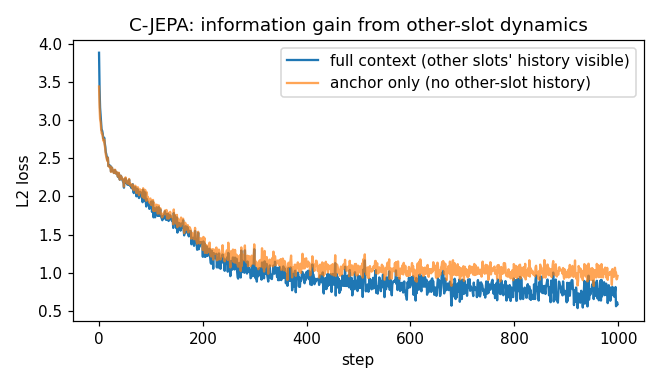
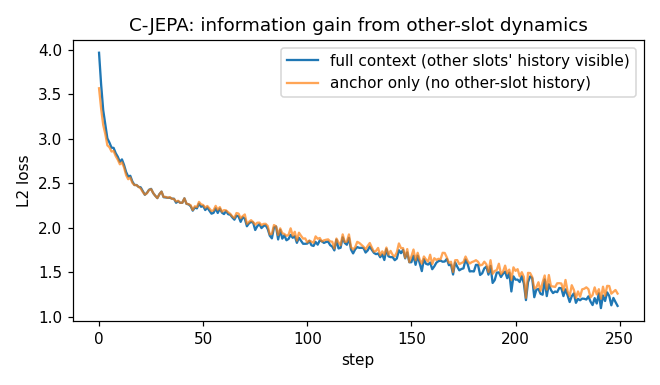
C-JEPA tutorial: add mask animation gif + Core insights
cjepa_extras.py: save_mask_animation() renders one video as a 3-panel
animation (original | context | targets) and steps through all T frames.
The animation makes the temporal structure of C-JEPA's masking obvious:
anchor visible at t=0, masked-object cell blanked at t=1..4, entire
context black at t=5..7 (full future forecasting).

cjepa_tutorial.md:
- Embed the gif right after the static mask grid with a one-paragraph
  description of what the animation makes obvious.
- Add "Core insights" section before "What's next": mask the object not
  the patch; identity anchor with no slot positional encoding; predict
  both history and future; frozen encoder removes need for EMA; the
  interaction-gap diagnostic measures inter-object information use.
- Honest note that slot discovery (the ~100k-step VideoSAUR prerequisite)
  is what we skip; everything downstream is faithful.

diff --git a/cjepa_extras.py b/cjepa_extras.py
@@ -65,6 +65,52 @@ def save_loss_decomp(losses_hist, losses_fut, losses_total, path):
     plt.savefig(path, dpi=110); plt.close()
 
 
+def save_mask_animation(video, slot_idx, mask_indices, t_anchor, path):
+    """Animated gif: original | context | targets across all T frames."""
+    import matplotlib.animation as animation
+    v = (video[0, 0].detach().cpu() + 0.5).clamp(0, 1)
+    T_frames, H, _ = v.shape
+    ctx_masks, tgt_masks = [], []
+    for fi in range(T_frames):
+        cm = torch.ones_like(v[0])
+        if fi >= T_HIST:
+            cm = torch.zeros_like(v[0])
+        elif fi != t_anchor:
+            for k in mask_indices:
+                r = int(slot_idx[fi, k] // GRID); c = int(slot_idx[fi, k] % GRID)
+                cm[r * CELL:(r + 1) * CELL, c * CELL:(c + 1) * CELL] = 0
+        tm = torch.zeros_like(v[0])
+        if 1 <= fi < T_HIST:
+            for k in mask_indices:
+                r = int(slot_idx[fi, k] // GRID); c = int(slot_idx[fi, k] % GRID)
+                tm[r * CELL:(r + 1) * CELL, c * CELL:(c + 1) * CELL] = 1
+        elif fi >= T_HIST:
+            tm = torch.ones_like(v[0])
+        ctx_masks.append(cm); tgt_masks.append(tm)
+
+    fig, axes = plt.subplots(1, 3, figsize=(7.5, 2.8))
+    fig.suptitle(f"C-JEPA  --  masked slots {mask_indices}  --  anchor t={t_anchor}", fontsize=9)
+    for ax, title in zip(axes, ["original", "context", "targets"]):
+        ax.set_title(title, fontsize=9); ax.set_xticks([]); ax.set_yticks([])
+    im0 = axes[0].imshow(v[0].numpy(), cmap="gray", vmin=0, vmax=1)
+    im1 = axes[1].imshow((v[0] * ctx_masks[0]).numpy(), cmap="gray", vmin=0, vmax=1)
+    im2 = axes[2].imshow((v[0] * tgt_masks[0]).numpy(), cmap="gray", vmin=0, vmax=1)
+    label = axes[0].text(1, 4, "", color="lime", fontsize=8,
+                         bbox=dict(facecolor="black", alpha=0.6, pad=2))
+
+    def update(t):
+        im0.set_data(v[t].numpy())
+        im1.set_data((v[t] * ctx_masks[t]).numpy())
+        im2.set_data((v[t] * tgt_masks[t]).numpy())
+        tag = " *anchor*" if t == t_anchor else (" *future*" if t >= T_HIST else "")
+        label.set_text(f"t={t}{tag}")
+        return im0, im1, im2, label
+
+    anim = animation.FuncAnimation(fig, update, frames=T_frames, interval=350, blit=False)
+    anim.save(path, writer="pillow", dpi=110)
+    plt.close()
+
+
 def save_interaction_gap(losses_total, losses_ablate, path):
     plt.figure(figsize=(6, 3.5))
     plt.plot(losses_total, label="full context (other slots' history visible)")
@@ -84,6 +130,8 @@ def main(epochs=4):
     mask_indices = sample_mask_indices(rng)
     save_mask_grid(video[0:1], slot_idx[0], mask_indices,
                    f"{SAMPLES_DIR}/cjepa_masks.png")
+    save_mask_animation(video[0:1], slot_idx[0], mask_indices, t_anchor=0,
+                        path=f"{SAMPLES_DIR}/cjepa_masks.gif")
 
     save_loss_decomp(out["losses_hist"], out["losses_fut"], out["losses_total"],
                      f"{SAMPLES_DIR}/cjepa_loss.png")

diff --git a/cjepa_tutorial.md b/cjepa_tutorial.md
@@ -30,6 +30,12 @@ Each video is 8 frames long. We split it into a **history window** of 5 frames a
 
 The figure shows one video. Top row: the original 8 frames. Middle row: the **context** — the t=0 anchor frame is fully visible, but the masked object's cell is blanked out at t=1..4, and the entire future (t=5..7) is hidden. Bottom row: the **targets** — at t=1..4 only the masked object is shown, and the entire future is visible.
 
+Animated, the structure pops:
+
+![C-JEPA masking animated](./samples/cjepa_masks.gif)
+
+At `t=0 *anchor*` everything is visible. At `t=1..4` the context loses the masked object's cell at each step (you can see it appear in the targets pane instead). At `t=5..7 *future*` the context is entirely black — the predictor must forecast all three objects' positions.
+
 ## The masking recipe
 
 For each batch:
@@ -174,6 +180,24 @@ The headline diagnostic: full-context loss vs anchor-only loss. If the gap is po
 In our 4-epoch run the gap reaches **+0.20 to +0.34 by epoch 7**: the anchor-only ablation lands 20–35% above the full-context loss. The model genuinely needs the other slots' trajectories to predict the masked object's path — exactly what C-JEPA's masking strategy is designed to elicit.
 
 This is the C-JEPA signature: a clean, growing gap that says "inter-object information is being used". Patch-JEPA on the same data would not produce this gap because patch-level masking can be solved by local interpolation.
+
+## Core insights
+
+Five things C-JEPA gets right, in roughly the order they matter:
+
+1. **Mask the object, not the patch.** Patch masking lets the model interpolate textures from neighbors — a low-information task. Hiding an entire object's trajectory removes that shortcut and forces the model to reason about *which object is where* and *how it interacts with others*.
+
+2. **Identity anchor at $t=0$, no slot positional encoding.** Slot order is arbitrary (Slot Attention is permutation-equivariant), so the model can't ground identity in a slot index. Instead, the only place the masked object's identity appears is the anchor projection $\phi(z_0^{(k)})$ added to each query token. The model has to track identity across time using only that one cue.
+
+3. **Predict both history and future.** $\mathcal{L}_{\text{hist}}$ is recovery (fill in what you can't see); $\mathcal{L}_{\text{fut}}$ is forecasting (predict what hasn't happened). Together they make the predictor a temporal model in both directions, not just a forward simulator.
+
+4. **The encoder is already frozen — no EMA needed.** Slot discovery happens *before* C-JEPA training (VideoSAUR on frozen DINOv2). By the time the C-JEPA predictor starts learning, the encoder is fixed. There's no representation collapse to prevent because there's nothing for the encoder to collapse into.
+
+5. **Interaction is the signal.** The anchor-only ablation directly measures how much the other objects' trajectories help. On data with real interactions (our bouncing digits with elastic collisions, the paper's CLEVRER physics) the gap grows steadily. On data with independent objects, the gap stays at zero — and that's diagnostic, not a bug.
+
+What we don't reproduce here: the **slot discovery** prerequisite. Real C-JEPA needs an object-centric encoder trained for ~100k steps before C-JEPA training even starts. Our embedding-lookup stand-in skips that step by reading oracle positions from the simulator; everything downstream of slot extraction is faithful.
+
+## What's next
 
 ## Hyperparameters
 